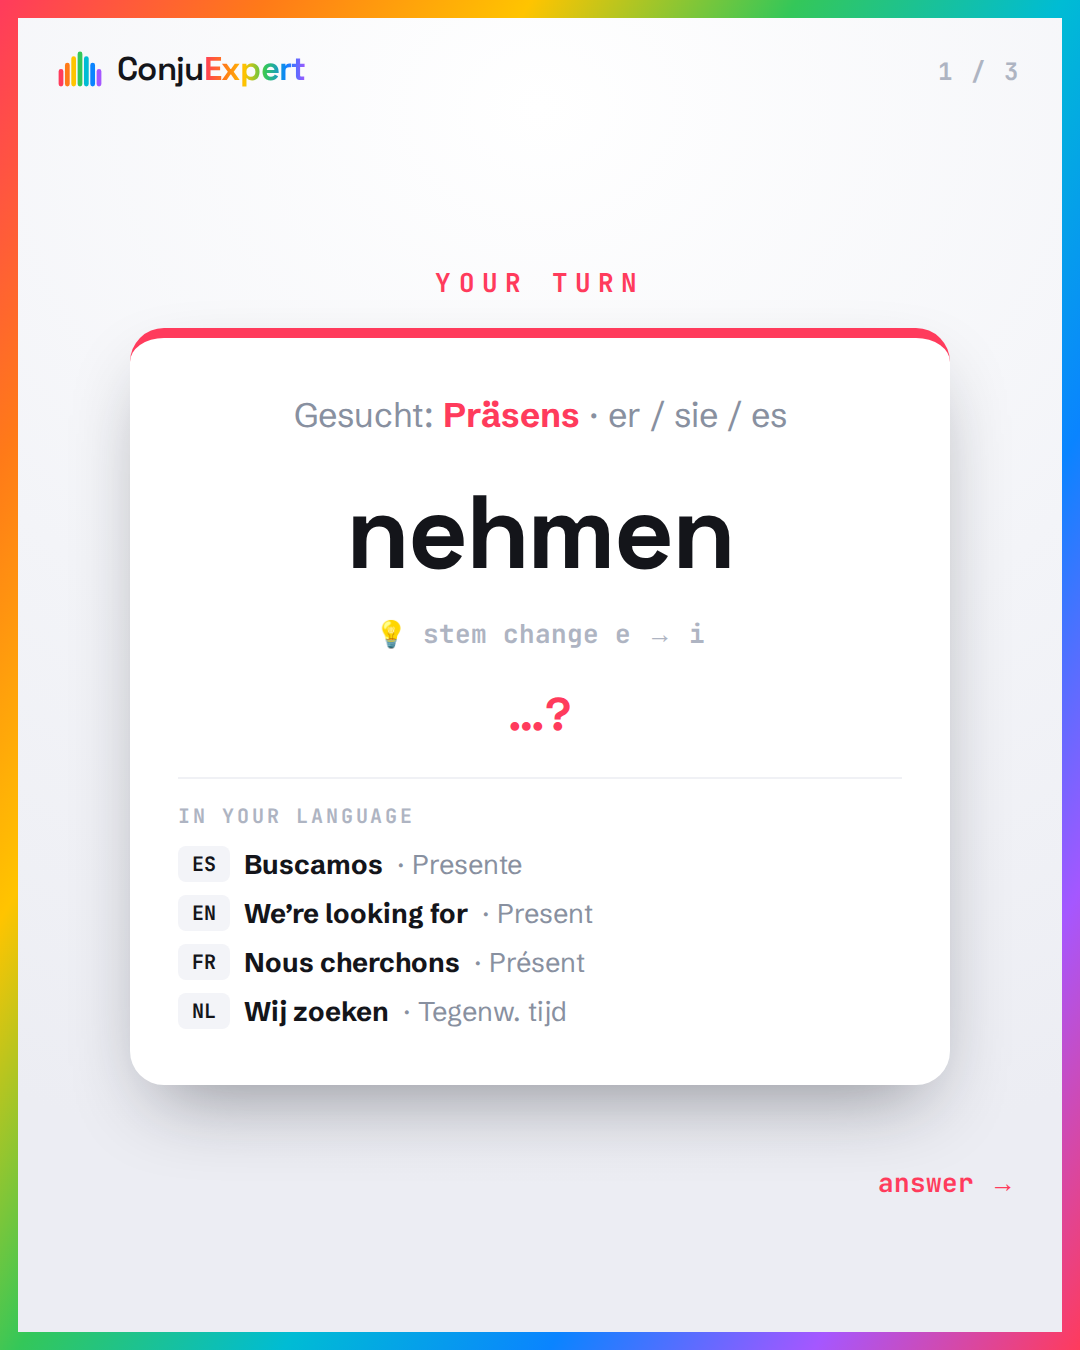
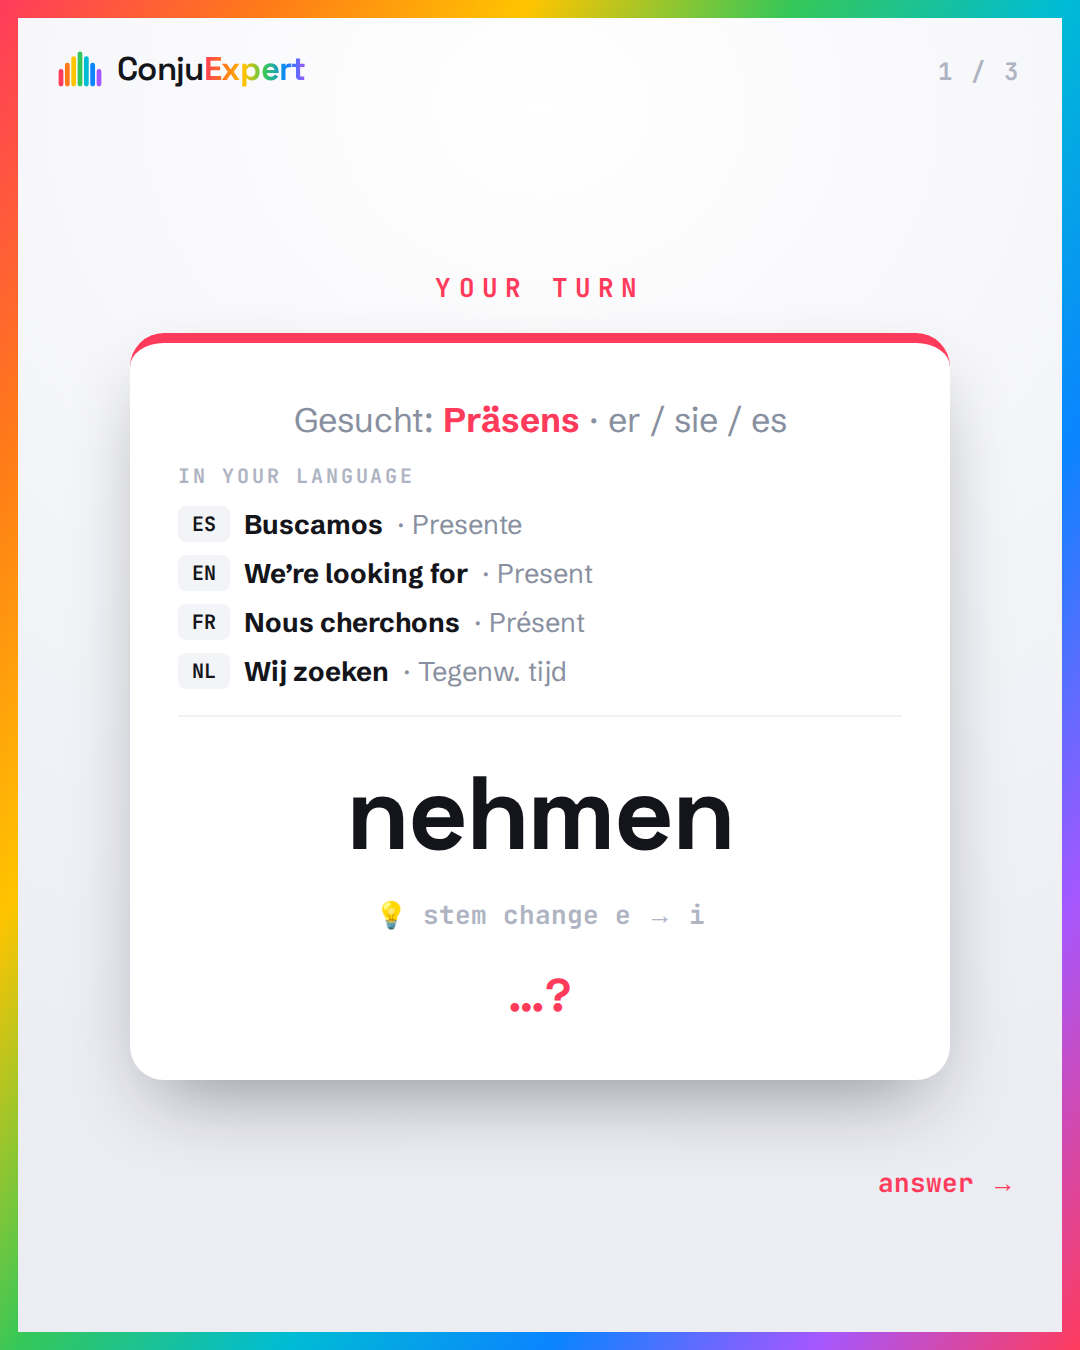
Quiz cards: move 4-language prompt band to top

Changed region(s): [[0.1222, 0.1867, 0.8861, 0.56], [0.1222, 0.56, 0.8556, 0.8089]]

diff --git a/scripts/social/quiz-carousel/template.html b/scripts/social/quiz-carousel/template.html
@@ -32,7 +32,7 @@ h1 .r{color:var(--red)}
 .verb{font-family:'SG';font-weight:700;font-size:104px;letter-spacing:-.02em;color:var(--ink);margin:30px 0 18px}
 .hint{font-family:'JB';font-weight:700;font-size:26px;color:#aeb4c2}
 .think{font-family:'SG';font-weight:700;font-size:46px;color:var(--red);margin-top:34px}
-.langs{margin-top:34px;border-top:2px solid #f0f1f5;padding-top:24px;display:flex;flex-direction:column;gap:13px;text-align:left}
+.langs{margin:22px 0 8px;border-bottom:2px solid #f0f1f5;padding-bottom:26px;display:flex;flex-direction:column;gap:13px;text-align:left}
 .langs .cap{font-family:'JB';font-weight:700;font-size:20px;letter-spacing:.14em;text-transform:uppercase;color:#aeb4c2;margin-bottom:4px}
 .langs .lrow{font-family:'SB';font-size:27px;color:#8890a0;display:flex;align-items:center;gap:14px}
 .langs .chip{font-family:'JB';font-weight:700;font-size:20px;color:var(--ink);background:#f3f4f8;border-radius:8px;padding:5px 11px;min-width:52px;text-align:center}
@@ -66,7 +66,7 @@ const slides=[];
 slides.push(`<div class="slide">${chrome('QUIZ')}<div class="eyebrow">Daily Quiz</div><h1>${CFG.intro.title}</h1><div class="sub">${CFG.intro.sub}</div><div class="swipe">swipe →</div></div>`);
 CFG.words.forEach((w,i)=>{
   slides.push(`<div class="slide">${chrome(`${i+1} / 3`)}<div class="eyebrow">Your turn</div>
-    <div class="qcard"><div class="asked">Gesucht: <b>${w.tense}</b> · ${w.person}</div><div class="verb">${w.verb}</div><div class="hint">💡 ${w.hint}</div><div class="think">…?</div>${langsBand(w.tense)}</div>
+    <div class="qcard"><div class="asked">Gesucht: <b>${w.tense}</b> · ${w.person}</div>${langsBand(w.tense)}<div class="verb">${w.verb}</div><div class="hint">💡 ${w.hint}</div><div class="think">…?</div></div>
     <div class="swipe">answer →</div></div>`);
   slides.push(`<div class="slide">${chrome(`${i+1} / 3`)}<div class="eyebrow">Answer</div>
     <div class="acard"><div class="small">${w.verb} · ${w.tense} · ${w.person}</div><div class="form">${w.form.replace(w.hlpart,`<span class="hl">${w.hlpart}</span>`)}</div><div class="tip">${w.tip}</div><div class="check">✓ got it?</div></div>
